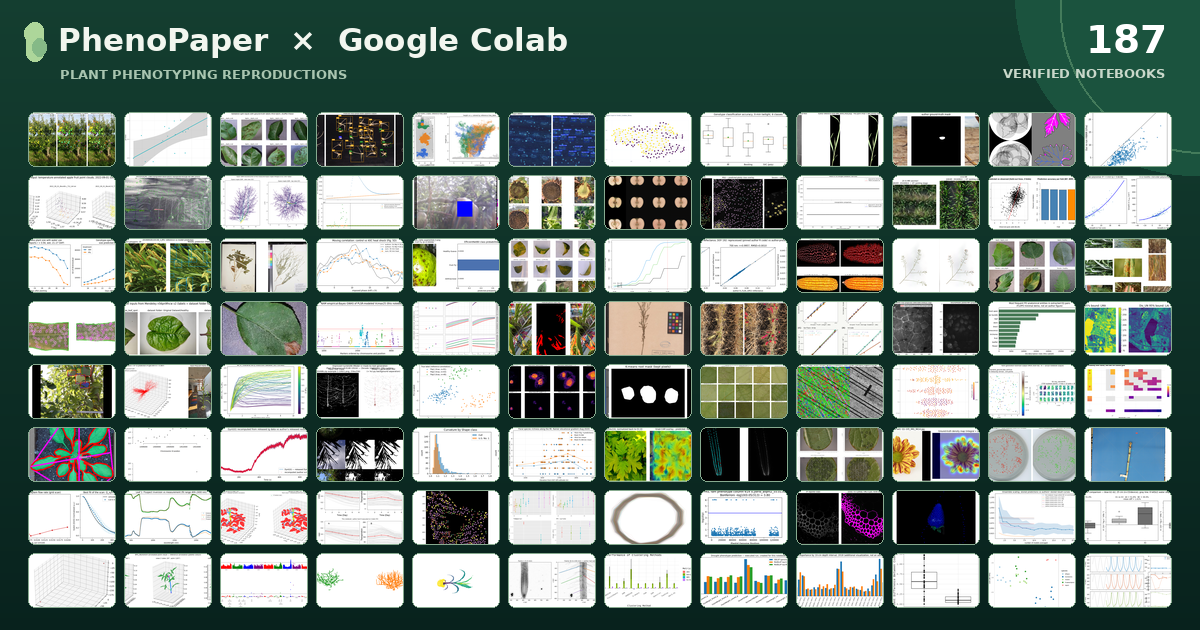
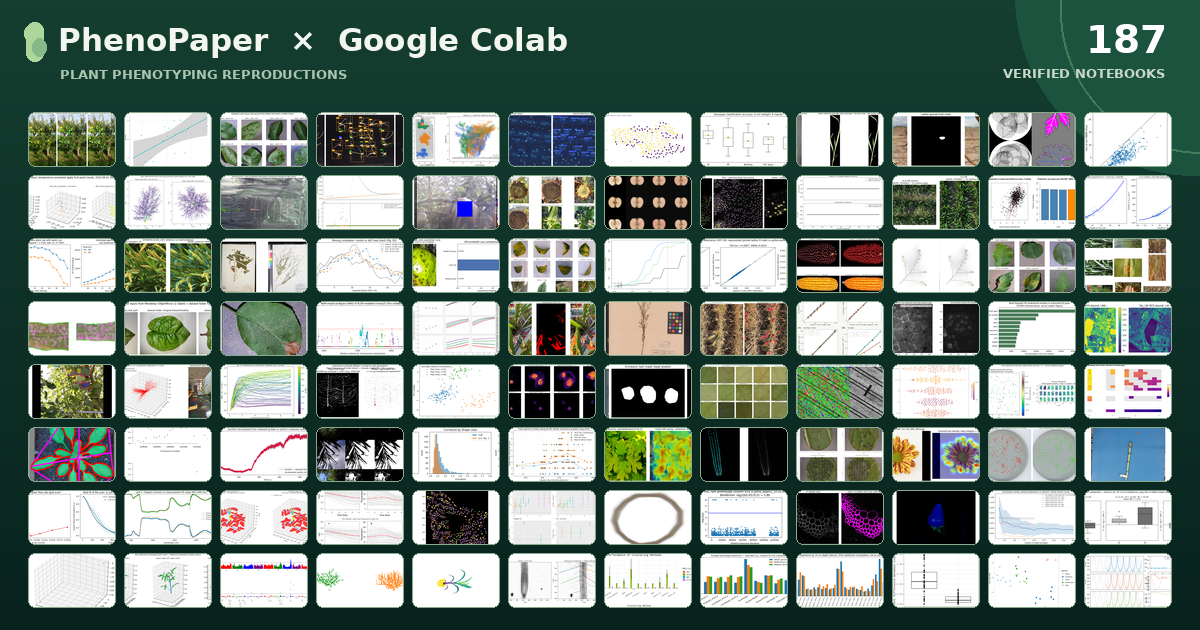
Correct UGVPP notebook association from issue cover to research paper

Changed region(s): [[0.0925, 0.2714, 0.2775, 0.3619]]

diff --git a/README.md b/README.md
@@ -73,7 +73,6 @@ This repository is part of [PhenoPaper](https://phenopaper.smartbreed-plant-phen
 - [Components of Water Use Efficiency Have Unique Genetic Signatures in the Model C 4 Grass Setaria .](notebooks/p-55cecb890eeed28624a594bf7f6f2af7.ipynb) · [Open in Colab](https://colab.research.google.com/github/phytometrics/phenopaper-colab-notebooks/blob/main/notebooks/p-55cecb890eeed28624a594bf7f6f2af7.ipynb)
 - [Computer vision approach to characterize size and shape phenotypes of horticultural crops using high-throughput imagery](notebooks/p-416be65b376f5b29b11774a0a72ea1f5.ipynb) · [Open in Colab](https://colab.research.google.com/github/phytometrics/phenopaper-colab-notebooks/blob/main/notebooks/p-416be65b376f5b29b11774a0a72ea1f5.ipynb)
 - [Converging functional phenotyping with systems mapping to illuminate the genotype-phenotype associations.](notebooks/p-f883e21e50d48220be739f6cefc2f867.ipynb) · [Open in Colab](https://colab.research.google.com/github/phytometrics/phenopaper-colab-notebooks/blob/main/notebooks/p-f883e21e50d48220be739f6cefc2f867.ipynb)
-- [Cover](notebooks/p-c5834ec3f310904a63ff454e575e977b.ipynb) · [Open in Colab](https://colab.research.google.com/github/phytometrics/phenopaper-colab-notebooks/blob/main/notebooks/p-c5834ec3f310904a63ff454e575e977b.ipynb)
 - [CoverageTool: A semi-automated graphic software: applications for plant phenotyping](notebooks/p-2ef7965b4468bbda8e86cda4aec579ae.ipynb) · [Open in Colab](https://colab.research.google.com/github/phytometrics/phenopaper-colab-notebooks/blob/main/notebooks/p-2ef7965b4468bbda8e86cda4aec579ae.ipynb)
 - [Crop Height and Plot Estimation for Phenotyping from Unmanned Aerial Vehicles using 3D LiDAR](notebooks/p-661ca6372a08bb11eab9cb4cf0f75a61.ipynb) · [Open in Colab](https://colab.research.google.com/github/phytometrics/phenopaper-colab-notebooks/blob/main/notebooks/p-661ca6372a08bb11eab9cb4cf0f75a61.ipynb)
 - [CVRP: A rice image dataset with high-quality annotations for image segmentation and plant phenomics research.](notebooks/p-c2a47db78f63545f233b669b0d53bca4.ipynb) · [Open in Colab](https://colab.research.google.com/github/phytometrics/phenopaper-colab-notebooks/blob/main/notebooks/p-c2a47db78f63545f233b669b0d53bca4.ipynb)
@@ -82,6 +81,7 @@ This repository is part of [PhenoPaper](https://phenopaper.smartbreed-plant-phen
 - [Deep learning-driven automatic counting of petal number in cut chrysanthemum inflorescence.](notebooks/p-0b16d2f84472b2dd6f481c1da6690fee.ipynb) · [Open in Colab](https://colab.research.google.com/github/phytometrics/phenopaper-colab-notebooks/blob/main/notebooks/p-0b16d2f84472b2dd6f481c1da6690fee.ipynb)
 - [DeepPod: a convolutional neural network based quantification of fruit number in Arabidopsis](notebooks/p-0d7cdc834f0208fdfc68b402628bdfd7.ipynb) · [Open in Colab](https://colab.research.google.com/github/phytometrics/phenopaper-colab-notebooks/blob/main/notebooks/p-0d7cdc834f0208fdfc68b402628bdfd7.ipynb)
 - [DeepStomata: Facial Recognition Technology for Automated Stomatal Aperture Measurement](notebooks/p-4471692ed96241966f8a065745f5ce8b.ipynb) · [Open in Colab](https://colab.research.google.com/github/phytometrics/phenopaper-colab-notebooks/blob/main/notebooks/p-4471692ed96241966f8a065745f5ce8b.ipynb)
+- [Development of a high-throughput field phenotyping rover optimized for size-limited breeding fields as open-source hardware](notebooks/p-c0fdebde1d5529f726acefa644e618fb.ipynb) · [Open in Colab](https://colab.research.google.com/github/phytometrics/phenopaper-colab-notebooks/blob/main/notebooks/p-c0fdebde1d5529f726acefa644e618fb.ipynb)
 - [DiSCount: computer vision for automated quantification of Striga seed germination.](notebooks/p-970513dc011c14d8207ae3d9cf35b642.ipynb) · [Open in Colab](https://colab.research.google.com/github/phytometrics/phenopaper-colab-notebooks/blob/main/notebooks/p-970513dc011c14d8207ae3d9cf35b642.ipynb)
 - [Drone phenotyping and machine learning enable discovery of loci regulating daily floral opening in lettuce](notebooks/p-86c185fe2f37a319f44e780d01bf0002.ipynb) · [Open in Colab](https://colab.research.google.com/github/phytometrics/phenopaper-colab-notebooks/blob/main/notebooks/p-86c185fe2f37a319f44e780d01bf0002.ipynb)
 - [Drought stress detection technique for wheat crop using machine learning](notebooks/p-ead632fb0835e0a94127f2d9adc08be6.ipynb) · [Open in Colab](https://colab.research.google.com/github/phytometrics/phenopaper-colab-notebooks/blob/main/notebooks/p-ead632fb0835e0a94127f2d9adc08be6.ipynb)
@@ -397,7 +397,7 @@ Each row starts with an Open in PhenoPaper badge, followed by DOI paper, Open in
 | **Earbox, an open tool for high-throughput measurement of the spatial organization of maize ears and inference of novel traits.**<br><sub>public_id: <code>p-116ad61400d168b145488899a4e023d4</code></sub><br><br>[![Open in PhenoPaper](https://img.shields.io/badge/Open_in-PhenoPaper-356859?style=flat-square)](https://phenopaper.smartbreed-plant-phenotyping-platform.com/papers/p-116ad61400d168b145488899a4e023d4) [![DOI paper](https://img.shields.io/badge/DOI-paper-326CE5?style=flat-square)](https://doi.org/10.1186/s13007-022-00925-8) [![Open in Colab](https://img.shields.io/badge/Open_in-Colab-F9AB00?style=flat-square&logo=googlecolab&logoColor=white)](https://colab.research.google.com/github/phytometrics/phenopaper-colab-notebooks/blob/main/notebooks/p-116ad61400d168b145488899a4e023d4.ipynb) [![Compute: CPU](https://img.shields.io/badge/compute-CPU-lightgrey?style=flat-square)](https://colab.research.google.com/github/phytometrics/phenopaper-colab-notebooks/blob/main/notebooks/p-116ad61400d168b145488899a4e023d4.ipynb) ![Validated 2026-10-06](https://img.shields.io/badge/validated-2026--10--06-6c757d?style=flat-square) <br><sub><b>Demonstration:</b> Runs the authors&#x27; MATLAB Earbox trait analyser headless in GNU Octave on two repository sample maize ears with precomputed DL2 grain masks, computing ear length, diameter, grains per row, ring counts and fertile/aborted zones; CNN inference is not reproduced (unpublished weights) and only 2 ears x face 1 are executed.</sub><br><br><sub><b>Semantic tags:</b> crop:maize, environment:laboratory, organ:inflorescence, organ:seed, task:counting, task:morphology, task:segmentation, trait:architecture, trait:reproductive_traits, trait:stress_response</sub> | <a href="https://colab.research.google.com/github/phytometrics/phenopaper-colab-notebooks/blob/main/notebooks/p-116ad61400d168b145488899a4e023d4.ipynb"><img src="assets/previews/p-116ad61400d168b145488899a4e023d4.png" width="400" alt="Sample ear RGB input with the authors&#x27; precomputed DL2 grain-mask contours (reference annotation) for B1E10_1 and 13_29_WW_Hyb_08_46_c_1." /></a><br><sub>Sample ear RGB input with the authors&#x27; precomputed DL2 grain-mask contours (reference annotation) for B1E10_1 and 13_29_WW_Hyb_08_46_c_1.</sub> |
 | **Plants stand still but hide: imperfect and heterogeneous detection is the rule when counting plants**<br><sub>public_id: <code>p-cdeb807babf91f2b6fe0f203dd5b5868</code></sub><br><br>[![Open in PhenoPaper](https://img.shields.io/badge/Open_in-PhenoPaper-356859?style=flat-square)](https://phenopaper.smartbreed-plant-phenotyping-platform.com/papers/p-cdeb807babf91f2b6fe0f203dd5b5868) [![DOI paper](https://img.shields.io/badge/DOI-paper-326CE5?style=flat-square)](https://doi.org/10.1101/2022.09.05.506614) [![Open in Colab](https://img.shields.io/badge/Open_in-Colab-F9AB00?style=flat-square&logo=googlecolab&logoColor=white)](https://colab.research.google.com/github/phytometrics/phenopaper-colab-notebooks/blob/main/notebooks/p-cdeb807babf91f2b6fe0f203dd5b5868.ipynb) [![Compute: CPU](https://img.shields.io/badge/compute-CPU-lightgrey?style=flat-square)](https://colab.research.google.com/github/phytometrics/phenopaper-colab-notebooks/blob/main/notebooks/p-cdeb807babf91f2b6fe0f203dd5b5868.ipynb) ![Validated 2026-10-05](https://img.shields.io/badge/validated-2026--10--05-6c757d?style=flat-square) <br><sub><b>Demonstration:</b> Reproduces the authors&#x27; final binomial GLMM of individual detection in plant counts, their Figures 2 and 3, and the per-method detection rates (0.44/0.59/0.74) from the pinned public dataset; raw-data formatting, appendices and Figure 4 are out of scope.</sub><br><br><sub><b>Semantic tags:</b> environment:field, organ:whole_plant, task:counting</sub> | <a href="https://colab.research.google.com/github/phytometrics/phenopaper-colab-notebooks/blob/main/notebooks/p-cdeb807babf91f2b6fe0f203dd5b5868.ipynb"><img src="assets/previews/p-cdeb807babf91f2b6fe0f203dd5b5868.png" width="400" alt="Reproduced Figure 3: model-predicted individual detection probability vs counting time for the three counting methods, by species conspicuousness and habitat closure." /></a><br><sub>Reproduced Figure 3: model-predicted individual detection probability vs counting time for the three counting methods, by species conspicuousness and habitat closure.</sub> |
 | **DynG: a dynamic scaling factor for thermographic stomatal conductance estimation under changing environmental conditions.**<br><sub>public_id: <code>p-4dee69b3ba1b0df3a727a2497e7a59bd</code></sub><br><br>[![Open in PhenoPaper](https://img.shields.io/badge/Open_in-PhenoPaper-356859?style=flat-square)](https://phenopaper.smartbreed-plant-phenotyping-platform.com/papers/p-4dee69b3ba1b0df3a727a2497e7a59bd) [![DOI paper](https://img.shields.io/badge/DOI-paper-326CE5?style=flat-square)](https://doi.org/10.1111/nph.70555) [![Open in Colab](https://img.shields.io/badge/Open_in-Colab-F9AB00?style=flat-square&logo=googlecolab&logoColor=white)](https://colab.research.google.com/github/phytometrics/phenopaper-colab-notebooks/blob/main/notebooks/p-4dee69b3ba1b0df3a727a2497e7a59bd.ipynb) [![Compute: CPU](https://img.shields.io/badge/compute-CPU-lightgrey?style=flat-square)](https://colab.research.google.com/github/phytometrics/phenopaper-colab-notebooks/blob/main/notebooks/p-4dee69b3ba1b0df3a727a2497e7a59bd.ipynb) ![Validated 2026-10-05](https://img.shields.io/badge/validated-2026--10--05-6c757d?style=flat-square) <br><sub><b>Demonstration:</b> Verbatim R reproduction of DynG&#x27;s core conversion (Eqn 5/7 worked example, Eqn 8 theoretical artificial-leaf conductance) and exact re-derivation of the released DynG(t) series (max delta 1.1e-15); thermogram-based phenotype phases are not released and out of scope.</sub><br><br><sub><b>Semantic tags:</b> crop:arabidopsis, modality:thermal, organ:leaf, organ:stomata, task:physiology, trait:stomatal_traits</sub> | <a href="https://colab.research.google.com/github/phytometrics/phenopaper-colab-notebooks/blob/main/notebooks/p-4dee69b3ba1b0df3a727a2497e7a59bd.ipynb"><img src="assets/previews/p-4dee69b3ba1b0df3a727a2497e7a59bd.png" width="400" alt="DynG(t) recomputed from the authors&#x27; released Ig data (author script, this run) overlaid on the authors&#x27; released DynG_results.csv; the two curves coincide." /></a><br><sub>DynG(t) recomputed from the authors&#x27; released Ig data (author script, this run) overlaid on the authors&#x27; released DynG_results.csv; the two curves coincide.</sub> |
-| **Cover**<br><sub>public_id: <code>p-c5834ec3f310904a63ff454e575e977b</code></sub><br><br>[![Open in PhenoPaper](https://img.shields.io/badge/Open_in-PhenoPaper-356859?style=flat-square)](https://phenopaper.smartbreed-plant-phenotyping-platform.com/papers/p-c5834ec3f310904a63ff454e575e977b) [![DOI paper](https://img.shields.io/badge/DOI-paper-326CE5?style=flat-square)](https://doi.org/10.1270/jsbbs.72-1cover) [![Open in Colab](https://img.shields.io/badge/Open_in-Colab-F9AB00?style=flat-square&logo=googlecolab&logoColor=white)](https://colab.research.google.com/github/phytometrics/phenopaper-colab-notebooks/blob/main/notebooks/p-c5834ec3f310904a63ff454e575e977b.ipynb) [![Compute: CPU](https://img.shields.io/badge/compute-CPU-lightgrey?style=flat-square)](https://colab.research.google.com/github/phytometrics/phenopaper-colab-notebooks/blob/main/notebooks/p-c5834ec3f310904a63ff454e575e977b.ipynb) ![Validated 2026-10-06](https://img.shields.io/badge/validated-2026--10--06-6c757d?style=flat-square) <br><sub><b>Demonstration:</b> COLMAP (pycolmap) SfM reconstruction of 20 nadir frames of one furrow from the UGVPP rover&#x27;s released center-camera data, with sparse point cloud, camera drive path, and reprojection check; per-plot EasyIDP extraction and the YOLOv5 heading branch are not reproduced.</sub><br><br><sub><b>Semantic tags:</b> crop:wheat, environment:field, organ:whole_plant, task:classification, trait:growth_development</sub> | <a href="https://colab.research.google.com/github/phytometrics/phenopaper-colab-notebooks/blob/main/notebooks/p-c5834ec3f310904a63ff454e575e977b.ipynb"><img src="assets/previews/p-c5834ec3f310904a63ff454e575e977b.png" width="400" alt="Reprojected SfM 3D points (green) overlaid on input frame DSC02516.JPG (UGVPP center camera, pinned commit a266881)" /></a><br><sub>Reprojected SfM 3D points (green) overlaid on input frame DSC02516.JPG (UGVPP center camera, pinned commit a266881)</sub> |
+| **Development of a high-throughput field phenotyping rover optimized for size-limited breeding fields as open-source hardware**<br><sub>public_id: <code>p-c0fdebde1d5529f726acefa644e618fb</code></sub><br><br>[![Open in PhenoPaper](https://img.shields.io/badge/Open_in-PhenoPaper-356859?style=flat-square)](https://phenopaper.smartbreed-plant-phenotyping-platform.com/papers/p-c0fdebde1d5529f726acefa644e618fb) [![DOI paper](https://img.shields.io/badge/DOI-paper-326CE5?style=flat-square)](https://doi.org/10.1270/jsbbs.21059) [![Open in Colab](https://img.shields.io/badge/Open_in-Colab-F9AB00?style=flat-square&logo=googlecolab&logoColor=white)](https://colab.research.google.com/github/phytometrics/phenopaper-colab-notebooks/blob/main/notebooks/p-c0fdebde1d5529f726acefa644e618fb.ipynb) [![Compute: CPU](https://img.shields.io/badge/compute-CPU-lightgrey?style=flat-square)](https://colab.research.google.com/github/phytometrics/phenopaper-colab-notebooks/blob/main/notebooks/p-c0fdebde1d5529f726acefa644e618fb.ipynb) ![Validated 2026-10-06](https://img.shields.io/badge/validated-2026--10--06-6c757d?style=flat-square) <br><sub><b>Demonstration:</b> COLMAP (pycolmap) SfM reconstruction of 20 nadir frames of one furrow from the UGVPP rover&#x27;s released center-camera data, with sparse point cloud, camera drive path, and reprojection check; per-plot EasyIDP extraction and the YOLOv5 heading branch are not reproduced.</sub><br><br><sub><b>Semantic tags:</b> crop:wheat, environment:field, organ:whole_plant, task:classification, trait:growth_development</sub> | <a href="https://colab.research.google.com/github/phytometrics/phenopaper-colab-notebooks/blob/main/notebooks/p-c0fdebde1d5529f726acefa644e618fb.ipynb"><img src="assets/previews/p-c0fdebde1d5529f726acefa644e618fb.png" width="400" alt="Reprojected SfM 3D points (green) overlaid on input frame DSC02516.JPG (UGVPP center camera, pinned commit a266881)" /></a><br><sub>Reprojected SfM 3D points (green) overlaid on input frame DSC02516.JPG (UGVPP center camera, pinned commit a266881)</sub> |
 | **Integrating spectral, texture, soil and fertilization information for plot-level prediction of sugarcane yield, millable stalk population and Brix from Jilin-1 imagery**<br><sub>public_id: <code>p-61a6050762a9ebd5d9bb785d2c368efe</code></sub><br><br>[![Open in PhenoPaper](https://img.shields.io/badge/Open_in-PhenoPaper-356859?style=flat-square)](https://phenopaper.smartbreed-plant-phenotyping-platform.com/papers/p-61a6050762a9ebd5d9bb785d2c368efe) [![DOI paper](https://img.shields.io/badge/DOI-paper-326CE5?style=flat-square)](https://doi.org/10.21203/rs.3.rs-9371174/v1) [![Open in Colab](https://img.shields.io/badge/Open_in-Colab-F9AB00?style=flat-square&logo=googlecolab&logoColor=white)](https://colab.research.google.com/github/phytometrics/phenopaper-colab-notebooks/blob/main/notebooks/p-61a6050762a9ebd5d9bb785d2c368efe.ipynb) [![Compute: CPU](https://img.shields.io/badge/compute-CPU-lightgrey?style=flat-square)](https://colab.research.google.com/github/phytometrics/phenopaper-colab-notebooks/blob/main/notebooks/p-61a6050762a9ebd5d9bb785d2c368efe.ipynb) ![Validated 2026-10-06](https://img.shields.io/badge/validated-2026--10--06-6c757d?style=flat-square) <br><sub><b>Demonstration:</b> Partial: authors&#x27; SVR_Model.py (SVR-RFE + LOOCV + grid search) run verbatim on the bundled random data_test.xlsx; metrics are pipeline checks, not paper results</sub><br><br><sub><b>Semantic tags:</b> crop:sugarcane, environment:field, modality:spectral, organ:whole_plant, task:yield_biomass, trait:yield</sub> | <a href="https://colab.research.google.com/github/phytometrics/phenopaper-colab-notebooks/blob/main/notebooks/p-61a6050762a9ebd5d9bb785d2c368efe.ipynb"><img src="assets/previews/p-61a6050762a9ebd5d9bb785d2c368efe.png" width="400" alt="No image or graph generated for this data-only reproduction." /></a><br><sub>No image or graph generated for this data-only reproduction.</sub> |
 | **Spatial ploidy inference using quantitative imaging.**<br><sub>public_id: <code>p-ae3580837492741945d947fd48c62a2d</code></sub><br><br>[![Open in PhenoPaper](https://img.shields.io/badge/Open_in-PhenoPaper-356859?style=flat-square)](https://phenopaper.smartbreed-plant-phenotyping-platform.com/papers/p-ae3580837492741945d947fd48c62a2d) [![DOI paper](https://img.shields.io/badge/DOI-paper-326CE5?style=flat-square)](https://doi.org/10.1016/j.crmeth.2025.101249) [![Open in Colab](https://img.shields.io/badge/Open_in-Colab-F9AB00?style=flat-square&logo=googlecolab&logoColor=white)](https://colab.research.google.com/github/phytometrics/phenopaper-colab-notebooks/blob/main/notebooks/p-ae3580837492741945d947fd48c62a2d.ipynb) [![Compute: CPU](https://img.shields.io/badge/compute-CPU-lightgrey?style=flat-square)](https://colab.research.google.com/github/phytometrics/phenopaper-colab-notebooks/blob/main/notebooks/p-ae3580837492741945d947fd48c62a2d.ipynb) ![Validated 2026-10-06](https://img.shields.io/badge/validated-2026--10--06-6c757d?style=flat-square) <br><sub><b>Demonstration:</b> Executed the iSPy Drosophila pylorus 2D Gaussian-mixture ploidy pipeline (normalized Hoechst intensity + projected area) on one deposited image per injury condition with the authors&#x27; pinned code, reproducing the 5-component selection and the severity-dependent ploidy trend, but not the paper&#x27;s dataset-level statistics.</sub><br><br><sub><b>Semantic tags:</b> crop:arabidopsis, modality:microscopy, organ:cell, organ:tissue, task:classification</sub> | <a href="https://colab.research.google.com/github/phytometrics/phenopaper-colab-notebooks/blob/main/notebooks/p-ae3580837492741945d947fd48c62a2d.ipynb"><img src="assets/previews/p-ae3580837492741945d947fd48c62a2d.png" width="400" alt="Sum projections of uninjured, mildly, and severely injured pylori with predicted ploidy classes overlaid on segmented nuclei (pooled 2D GMM, K=5)." /></a><br><sub>Sum projections of uninjured, mildly, and severely injured pylori with predicted ploidy classes overlaid on segmented nuclei (pooled 2D GMM, K=5).</sub> |
 | **Bayesian functional regression as an alternative statistical analysis of high-throughput phenotyping data of modern agriculture.**<br><sub>public_id: <code>p-921e3c64e6cd8f598d5f56edbe436f1f</code></sub><br><br>[![Open in PhenoPaper](https://img.shields.io/badge/Open_in-PhenoPaper-356859?style=flat-square)](https://phenopaper.smartbreed-plant-phenotyping-platform.com/papers/p-921e3c64e6cd8f598d5f56edbe436f1f) [![DOI paper](https://img.shields.io/badge/DOI-paper-326CE5?style=flat-square)](https://doi.org/10.1186/s13007-018-0314-7) [![Open in Colab](https://img.shields.io/badge/Open_in-Colab-F9AB00?style=flat-square&logo=googlecolab&logoColor=white)](https://colab.research.google.com/github/phytometrics/phenopaper-colab-notebooks/blob/main/notebooks/p-921e3c64e6cd8f598d5f56edbe436f1f.ipynb) [![Compute: CPU](https://img.shields.io/badge/compute-CPU-lightgrey?style=flat-square)](https://colab.research.google.com/github/phytometrics/phenopaper-colab-notebooks/blob/main/notebooks/p-921e3c64e6cd8f598d5f56edbe436f1f.ipynb) ![Validated 2026-10-06](https://img.shields.io/badge/validated-2026--10--06-6c757d?style=flat-square) <br><sub><b>Demonstration:</b> Reproduces the paper&#x27;s Alternative 2 functional regression (M7) on the irrigated wheat hyperspectral data with the authors&#x27; GFR R package, reaching an average 3-fold CV Pearson correlation of 0.497 within the paper&#x27;s reported range; exact Table 2 values are not targeted because fold seeds and MCMC settings are unpublished.</sub><br><br><sub><b>Semantic tags:</b> crop:wheat, modality:spectral</sub> | <a href="https://colab.research.google.com/github/phytometrics/phenopaper-colab-notebooks/blob/main/notebooks/p-921e3c64e6cd8f598d5f56edbe436f1f.ipynb"><img src="assets/previews/p-921e3c64e6cd8f598d5f56edbe436f1f.png" width="400" alt="Predicted vs observed grain yield for held-out lines (left) and per-fold Pearson correlation with average 0.497 (right) for M7/Alternative 2, B-spline L=23, BRR prior, 3-fold CV." /></a><br><sub>Predicted vs observed grain yield for held-out lines (left) and per-fold Pearson correlation with average 0.497 (right) for M7/Alternative 2, B-spline L=23, BRR prior, 3-fold CV.</sub> |
